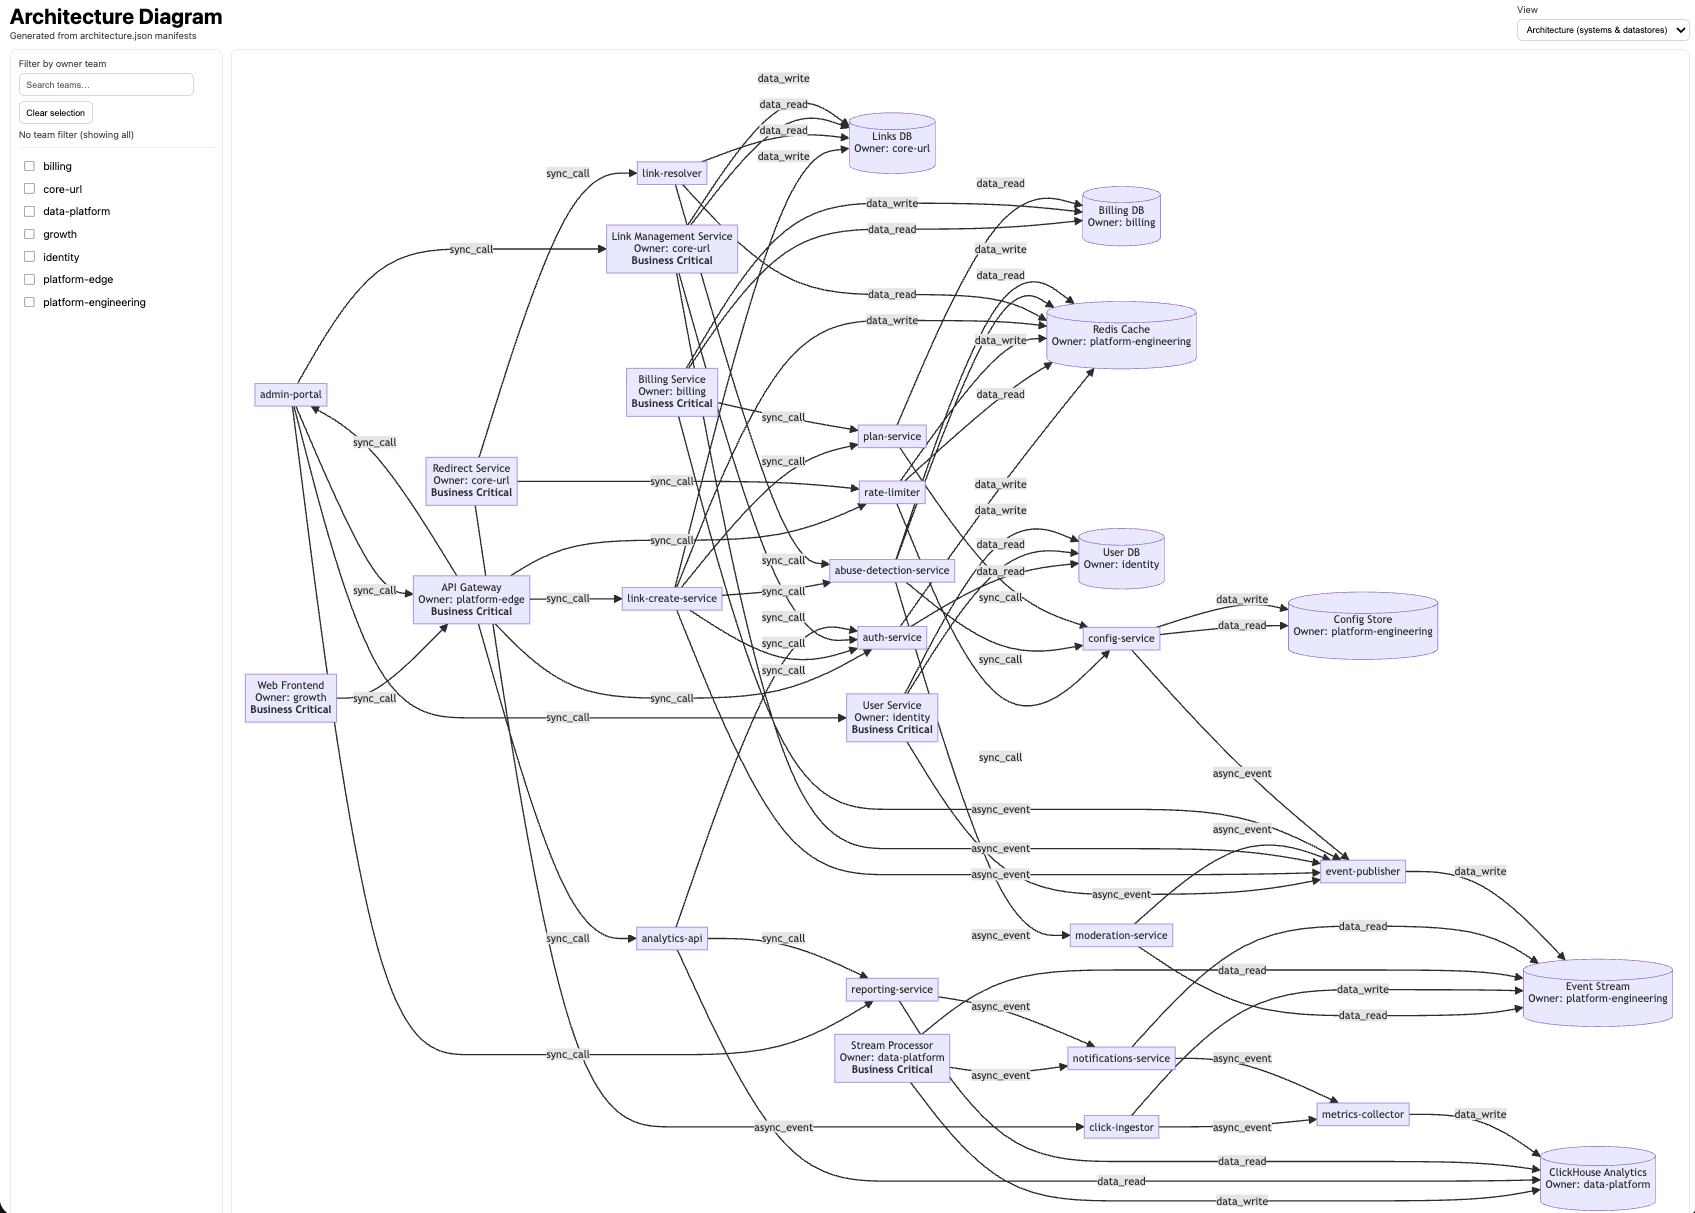
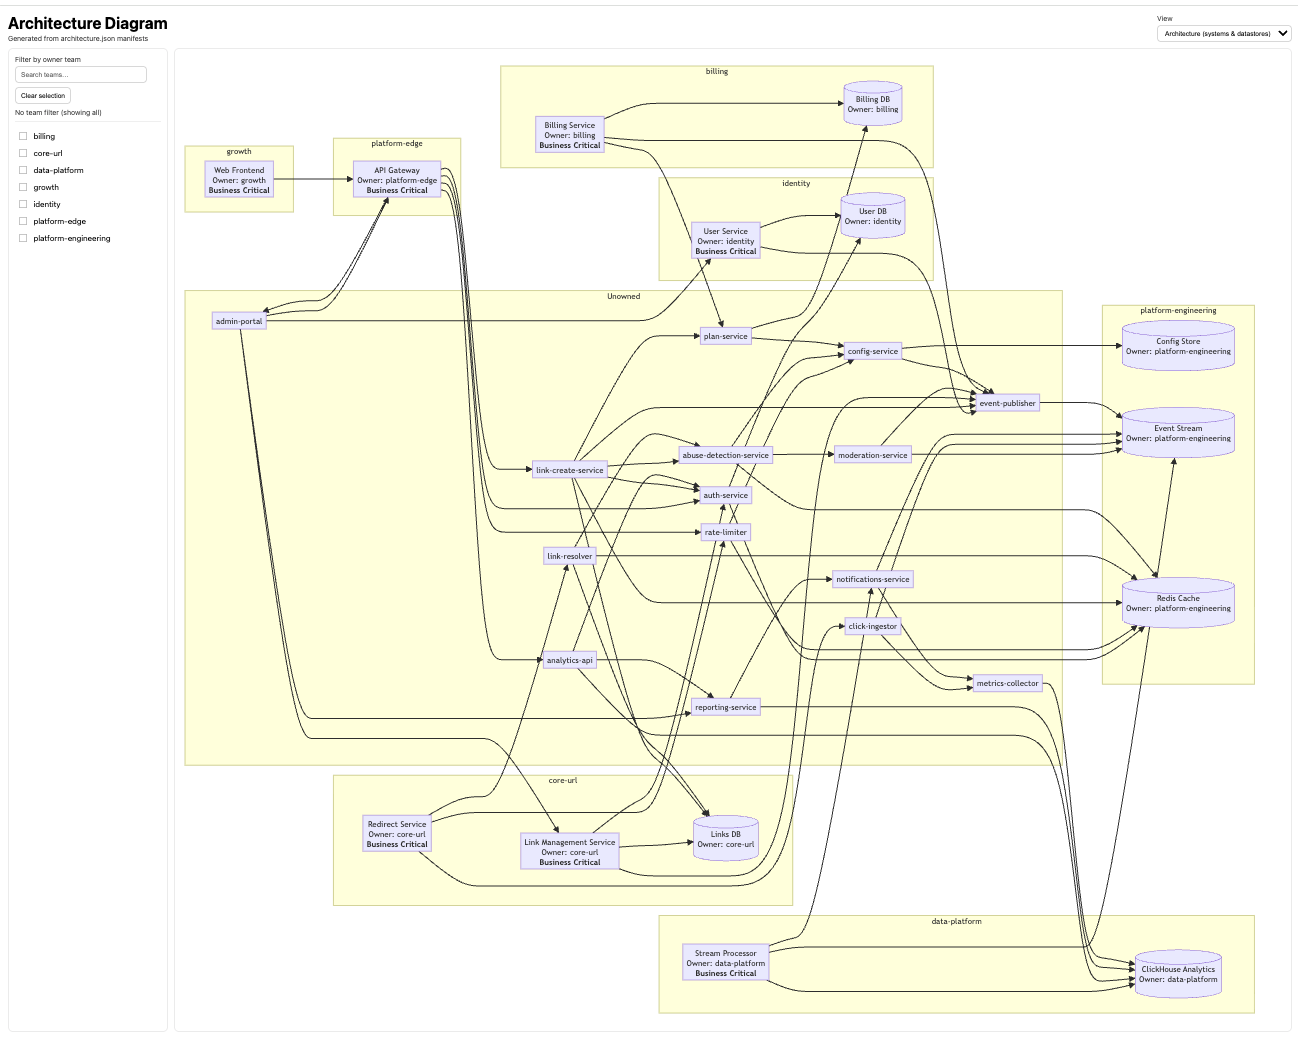
updates diagram generation, grouped systems, easier to follow

diff --git a/src/shared/buildMermaid.ts b/src/shared/buildMermaid.ts
@@ -87,6 +87,7 @@ export function buildMermaid(graph: WebGraph, opts: BuildOptions): { mermaid: st
 
     // 4) Build Mermaid
     const lines: string[] = []
+    lines.push("%%{init: {'flowchart': {'nodeSpacing': 40, 'rankSpacing': 80}}}%%")
     lines.push('flowchart LR')
 
     const includedNodes = [...includedUids].map((uid) => nodesByUid.get(uid)).filter(Boolean) as WebNode[]
@@ -94,18 +95,50 @@ export function buildMermaid(graph: WebGraph, opts: BuildOptions): { mermaid: st
     // stable sort
     includedNodes.sort((a, b) => a.uid.localeCompare(b.uid))
 
+    const nodesByTeam = new Map<string, WebNode[]>()
+
     for (const n of includedNodes) {
-        lines.push(`  ${n.uid}${shape(n.kind)}${label(n)}`)
+        const team = n.owner_team?.trim() || 'Unowned'
+        const list = nodesByTeam.get(team) ?? []
+        list.push(n)
+        nodesByTeam.set(team, list)
+    }
+
+    const teamEntries = [...nodesByTeam.entries()].sort(([a], [b]) => a.localeCompare(b))
+
+    for (const [team, teamNodes] of teamEntries) {
+        const teamId = `team_${team.replace(/[^a-zA-Z0-9_]/g, '_')}`
+        lines.push(`  subgraph ${teamId}["${escapeLabel(team)}"]`)
+
+        for (const n of teamNodes) {
+            lines.push(`    ${n.uid}${shape(n.kind)}${label(n)}`)
+        }
+
+        lines.push('  end')
     }
 
     // edge labels (keep optional, low-noise)
+    const edgeGroups = new Map<string, { from: string; to: string; labels: string[] }>()
+
     for (const e of edges) {
-        const lbl = edgeLabel(e.relationship)
+        const key = `${e.from}||${e.to}`
+        const label = edgeLabel(e.relationship, opts.view)
+        const existing = edgeGroups.get(key)
+
+        if (existing) {
+            if (label && !existing.labels.includes(label)) existing.labels.push(label)
+        } else {
+            edgeGroups.set(key, { from: e.from, to: e.to, labels: label ? [label] : [] })
+        }
+    }
+
+    for (const { from, to, labels } of edgeGroups.values()) {
+        const lbl = labels.join(', ')
 
         if (lbl) {
-            lines.push(`  ${e.from} -- "${escapeLabel(lbl)}" --> ${e.to}`)
+            lines.push(`  ${from} -- "${escapeLabel(lbl)}" --> ${to}`)
         } else {
-            lines.push(`  ${e.from} --> ${e.to}`)
+            lines.push(`  ${from} --> ${to}`)
         }
     }
 
@@ -149,7 +182,11 @@ function closeShape(kind: WebNode['kind']): string {
     }
 }
 
-function edgeLabel(rel?: string): string {
+function edgeLabel(rel: string | undefined, view: View): string {
+    if (view === 'architecture') {
+        return ''
+    }
+
     if (!rel) {
         return ''
     }